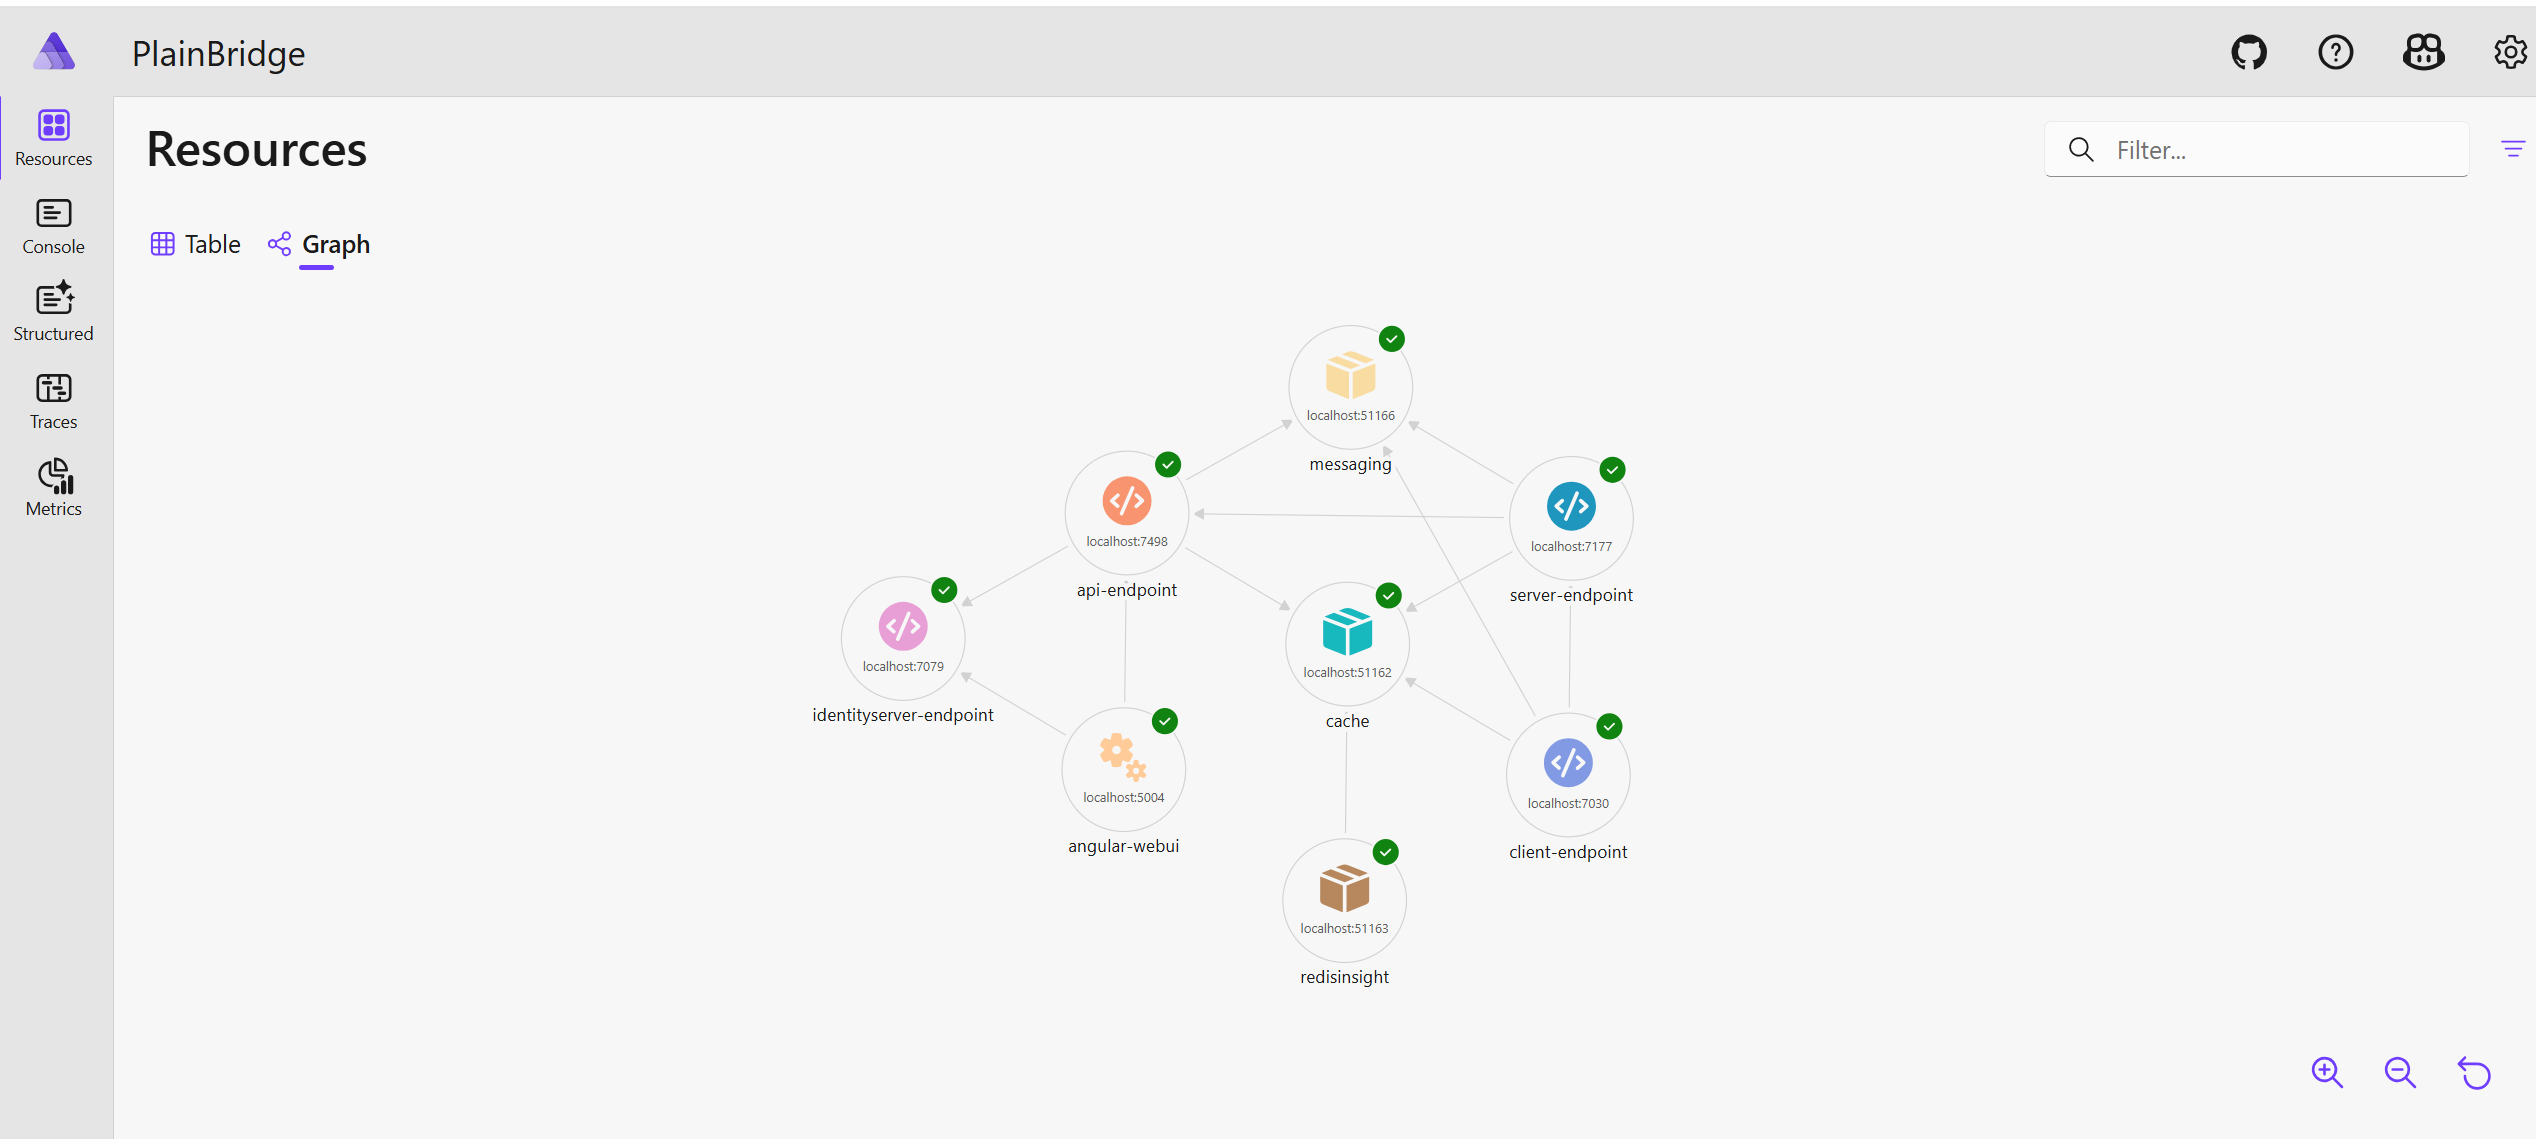
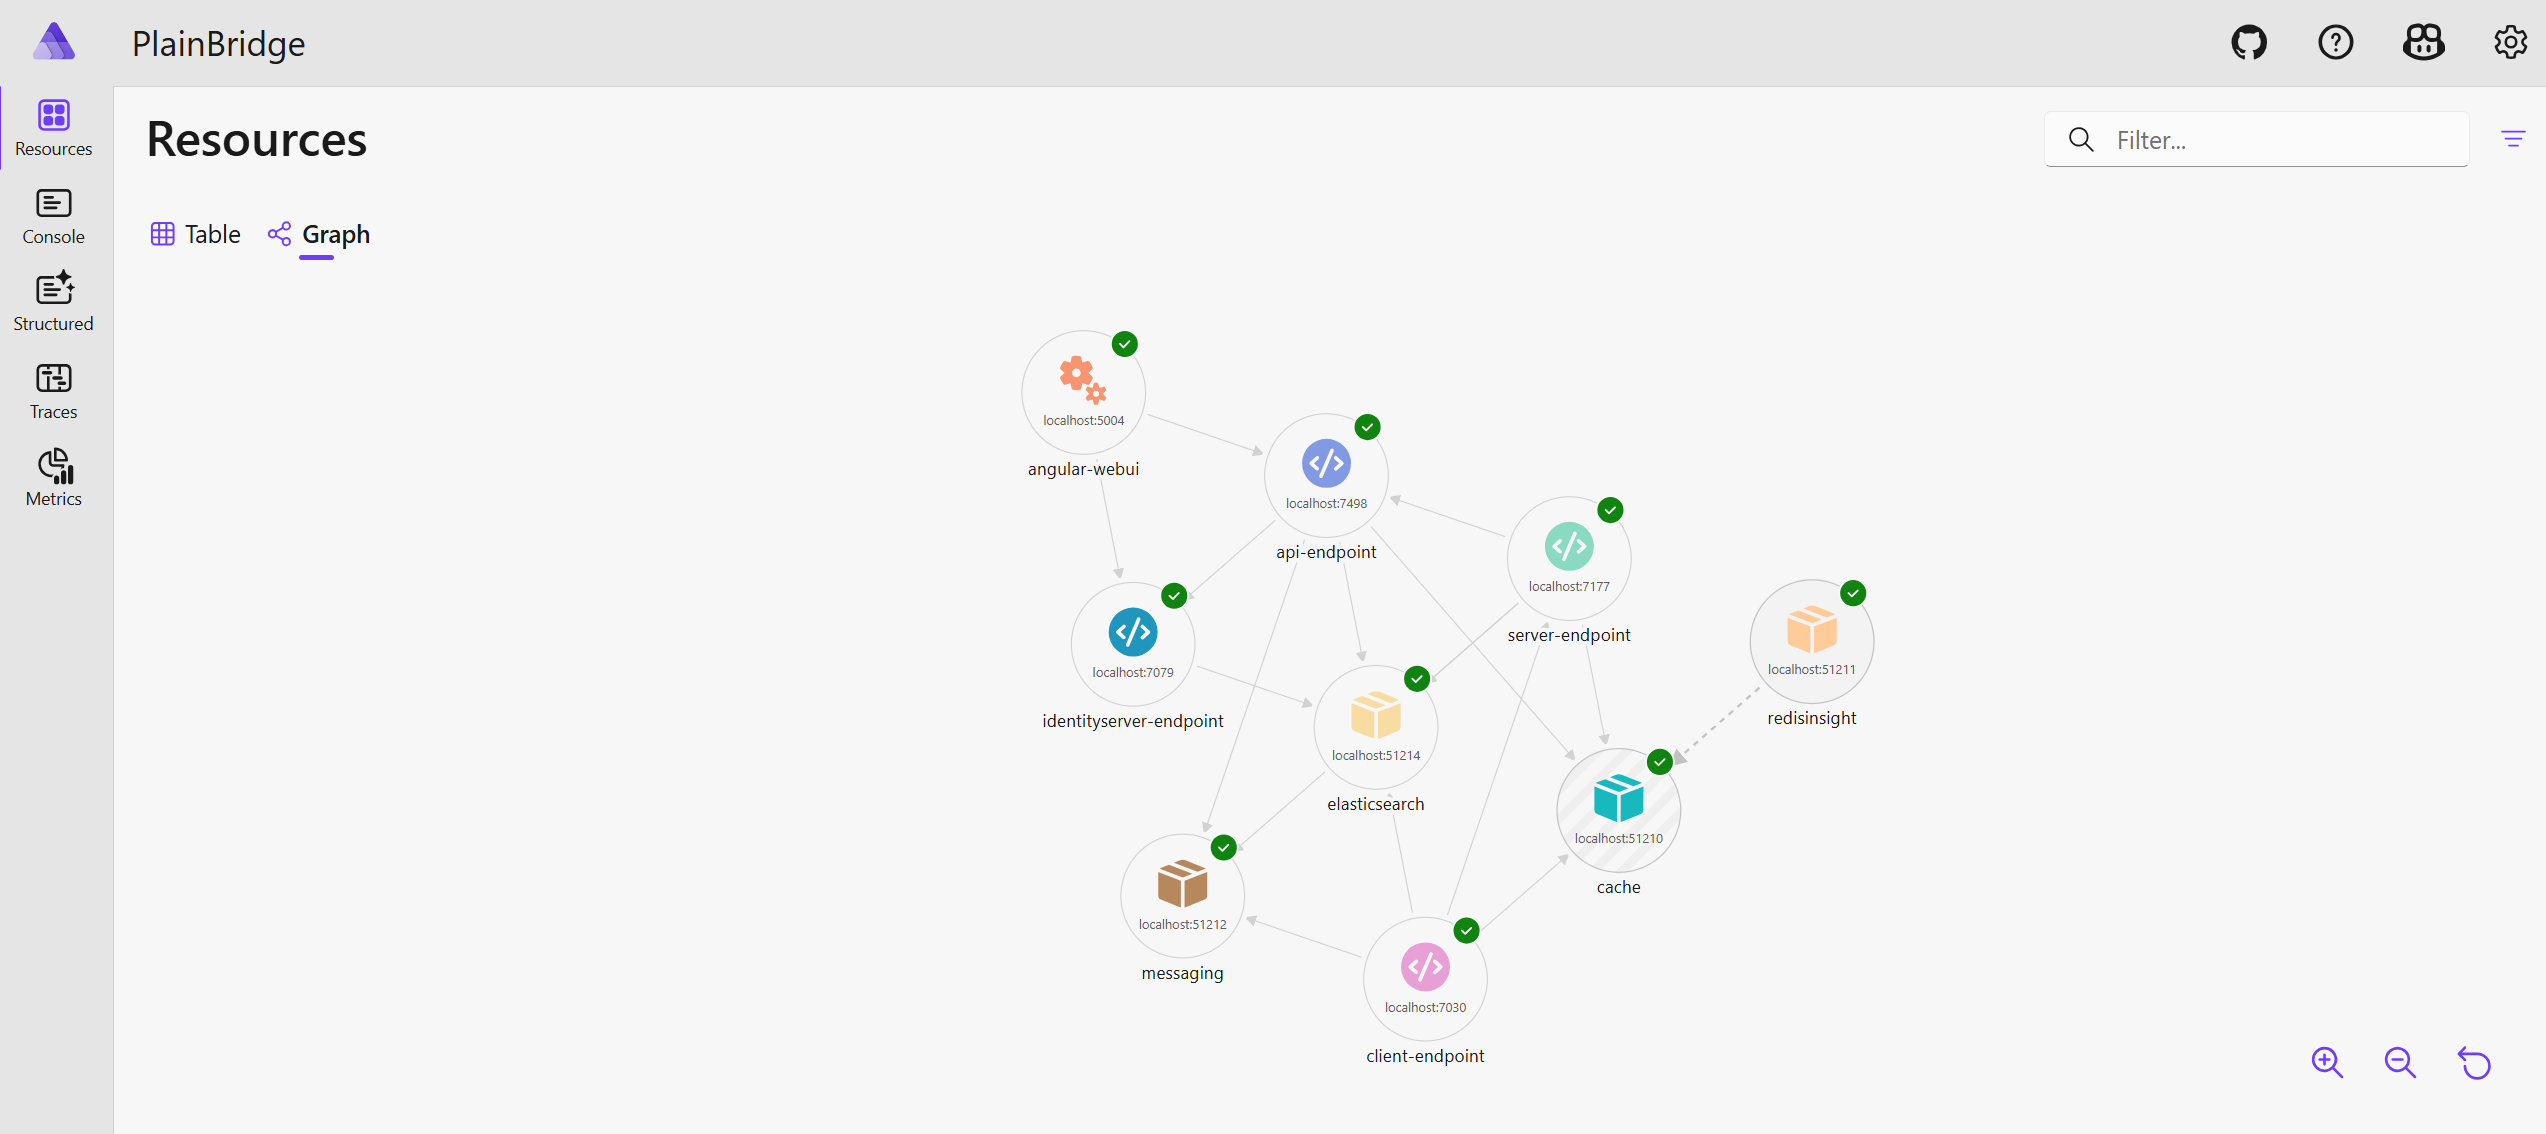
Change small thing in readme file.

diff --git a/README.md b/README.md
@@ -142,6 +142,7 @@ For compose deployments, see infra/.env for port and image mappings.
 ## Screenshots
 
 ![Aspire Graph](https://github.com/YAS-SIIN/PlainBridge/blob/master/docs/images/resources-graph.png)
+![Aspire Graph2](https://github.com/YAS-SIIN/PlainBridge/blob/master/docs/images/resources-graph2.png)
 Small, connected graph showing Redis, RabbitMQ, and the API/Server/Client/IDS/Angular apps.
 
 
@@ -158,6 +159,11 @@ Duende IdentityServer login page (local user and Google button placeholder).
 
 ![Web Dashboard](https://github.com/YAS-SIIN/PlainBridge/blob/master/docs/images/web-dashboard.png)
 Angular UI landing dashboard after sign-in.
+ 
+
+
+![Test Result](https://github.com/YAS-SIIN/PlainBridge/blob/master/docs/images/test-result.png)
+Test results.
  
 
 
